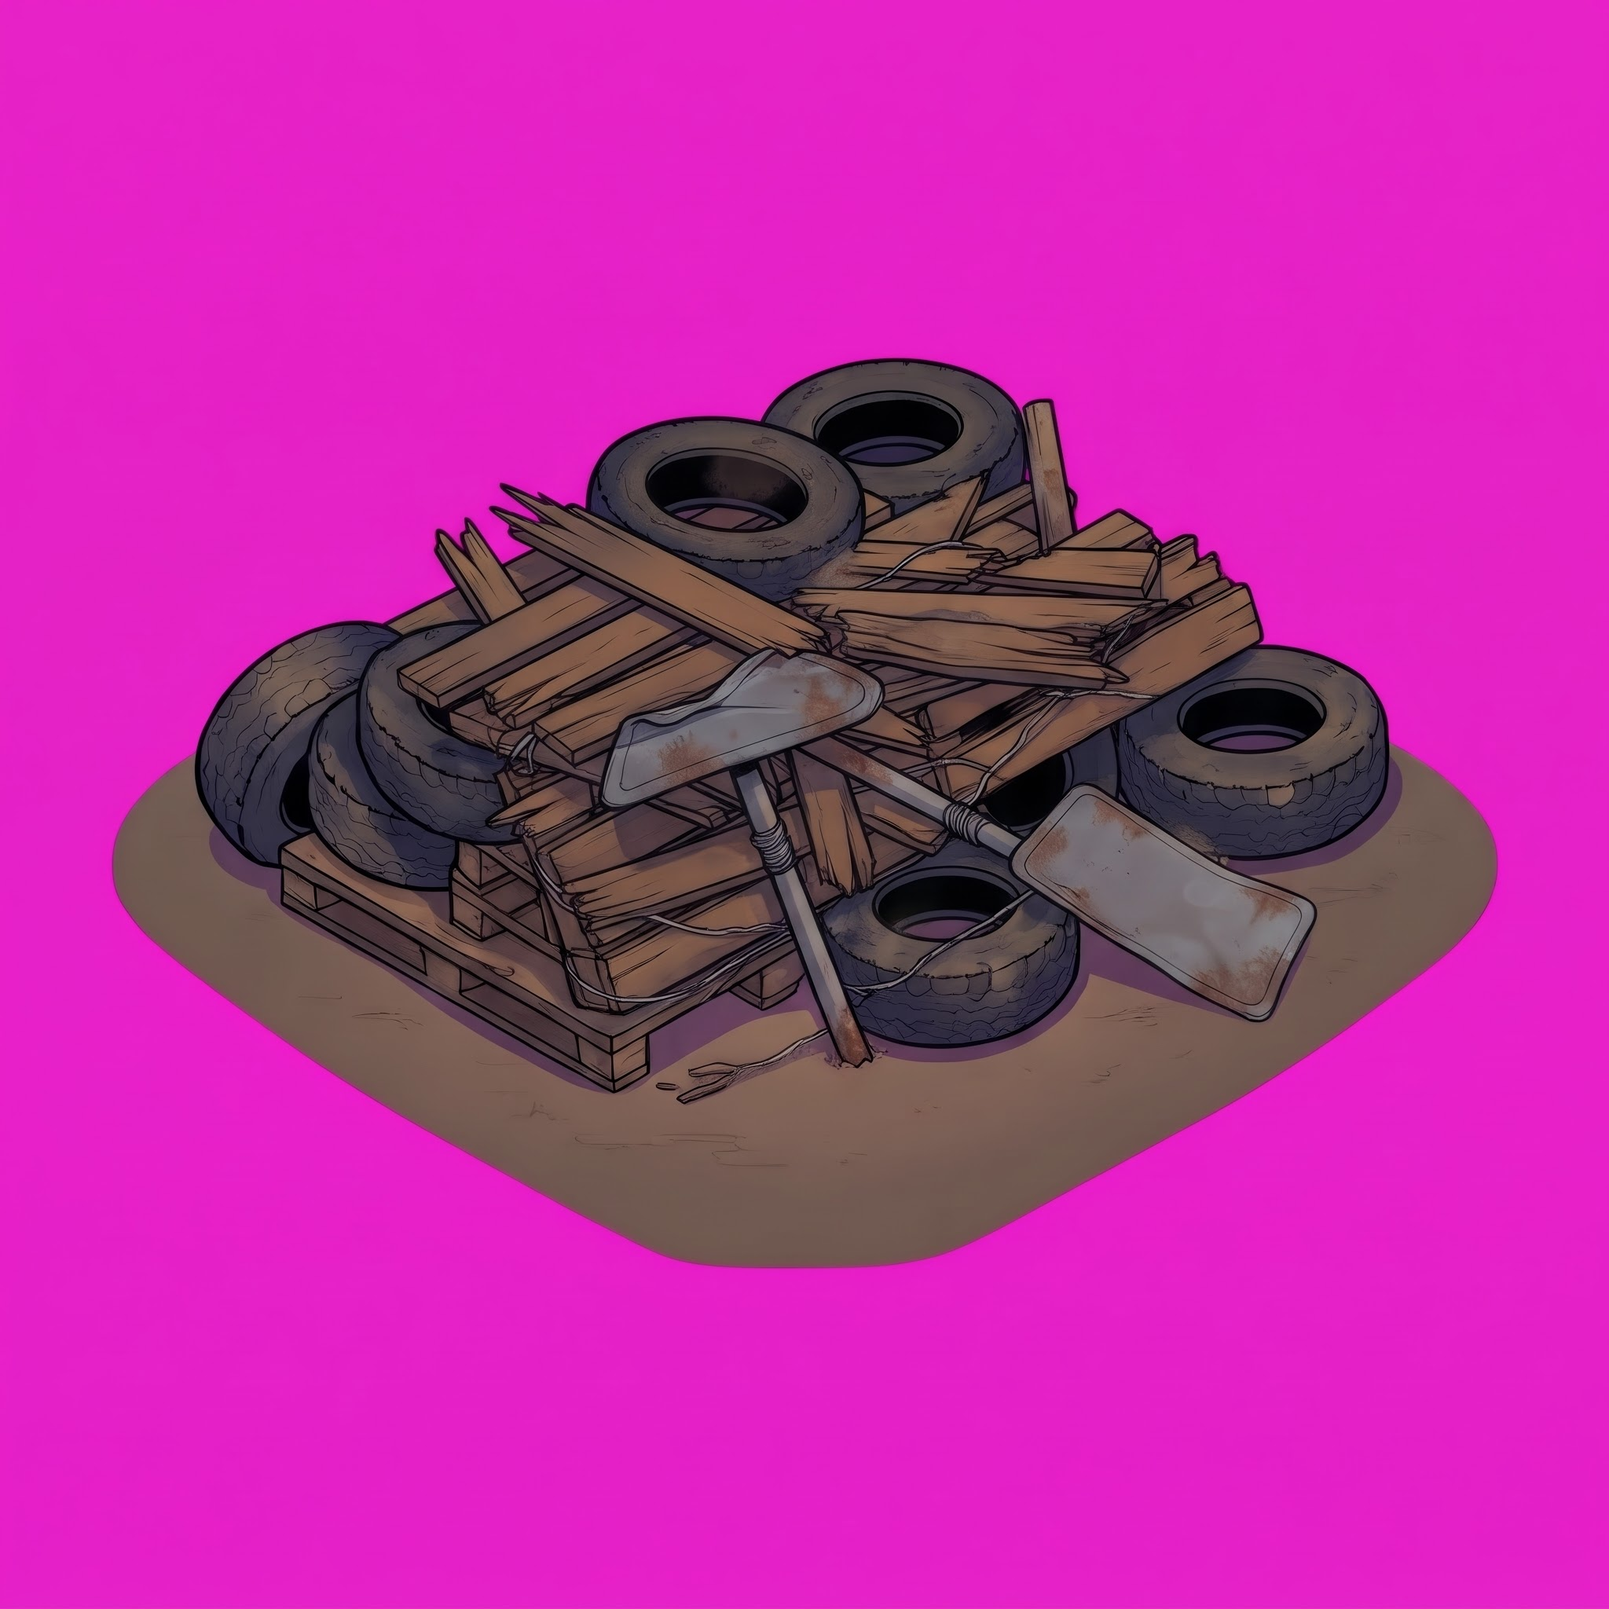
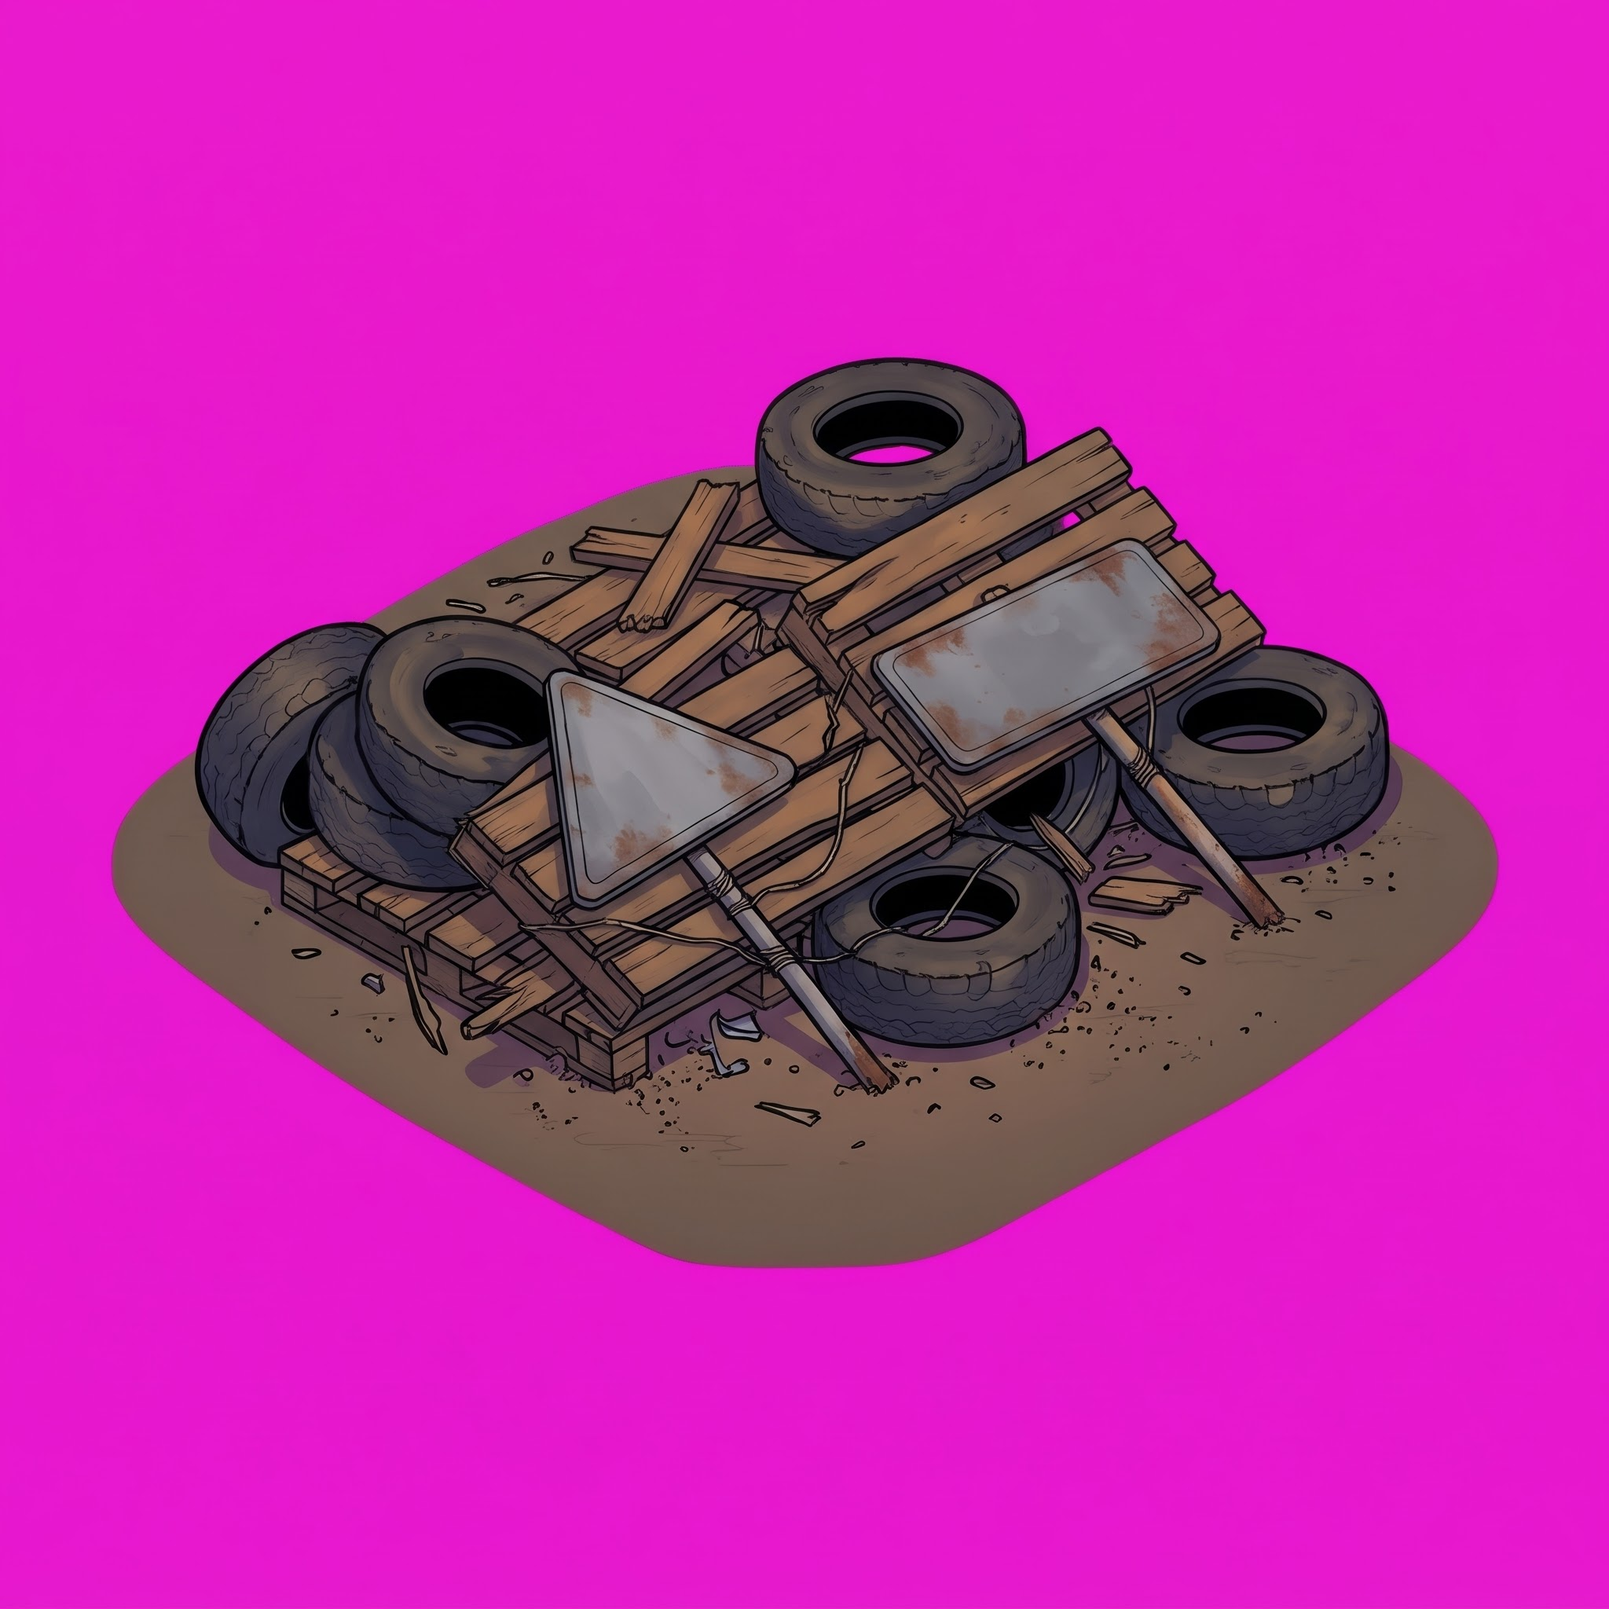
Images V5 : barricade effondrée refaite, infirmerie en bâtiment, zombies V4 sur l'écran titre
Claude-Session: https://claude.ai/code/session_01EiUMbdDP9aDK3QQ2MmNpDK

Changed region(s): [[0.1562, 0.25, 0.8438, 0.7188], [0.8125, 0.5, 0.8438, 0.5312]]

diff --git a/CLAUDE.md b/CLAUDE.md
@@ -170,7 +170,7 @@ Alternatives écartées pour l'instant : (B) plus de contenu d'exploration (3e z
 - Images V3 dans le jeu : `Images.v3_*` lit `images/v3/manifest.json` (ancre aux pieds ; exporté via `include_filter`) ; lampe = pixel le plus à droite entre 35 et 65 % de la hauteur ; yeux du coureur = pixels jaunes du tiers haut, redessinés sur le calque `Yeux`. Un profil V3 (retourné) + des poses de dos (voir « Poses de dos ») ; V2 gardé en secours si une image V3 manque.
 - Animation V3 (`Images.v3_animation`) : walk_a / walk_b (ou run_a / run_b) alternés en marche (a, passage walk_c, b, passage quand walk_c existe : héros et héroïne depuis le lot D des images V4), sinon pose immobile avec rebond + inclinaison ; pose attack pendant `DUREE_POSE_ATTAQUE` (0,3 s) après un coup.
 - Poses de dos (demande du père) : quand le regard va vers le haut de l'écran (`Iso.direction_ecran(_regard).y < -0.1` : haut, haut-gauche, haut-droite), `v3_animation(..., dos = true)` prend `<perso>_back_iddle` au repos et `_back_walk_a` / `_back_walk_b` en marche (images regardant en haut à droite, retournées pour la gauche), et renvoie `"dos": true`. Il faut les 3 poses, sinon poses habituelles. Le coup garde la pose attack de profil. Lampe des poses de dos : main du côté gauche de l'image, `Images.v3_lampe(nom, gauche = true)` = pixel le plus à gauche entre 35 et 65 % de la hauteur (vérifié sur les 6 poses : bout de la torche) ; le faisceau garde la direction du regard. Seul le héros dans les lieux s'en sert (ChoixHeros, titre et fin inchangés). Test `test_o` (captures montée, montée à gauche, arrêt face au haut, descente).
-- Zombies en images V3 / V4 (lot C) : `Zombie.PERSOS_V3` (gros `zombie_big`, maigre `zombie_thin`, coureur `zombie_runner`) ; `_pose` passe par `Images.v3_animation` pour tous : profil regardant à gauche (retourné à droite), dos (`regard` vers le haut, images vers le haut à droite, retournées à gauche), pose `attack` (bras levés) pendant la préparation du coup ; les bras dessinés en code (`_dessiner_bras_leves`) ne servent plus qu'en secours sans image `attack` (remarque d'Eliott : mélange dessin / code). Atlas V2 (`POSES`) gardé en secours. Yeux V3 cherchés dans la moitié haute de l'image (tête plus basse bras levés). Fiche de la carte : zombies V3. Écrans titre / fin (`DecorEcran`) : encore V2.
+- Zombies en images V3 / V4 (lot C) : `Zombie.PERSOS_V3` (gros `zombie_big`, maigre `zombie_thin`, coureur `zombie_runner`) ; `_pose` passe par `Images.v3_animation` pour tous : profil regardant à gauche (retourné à droite), dos (`regard` vers le haut, images vers le haut à droite, retournées à gauche), pose `attack` (bras levés) pendant la préparation du coup ; les bras dessinés en code (`_dessiner_bras_leves`) ne servent plus qu'en secours sans image `attack` (remarque d'Eliott : mélange dessin / code). Atlas V2 (`POSES`) gardé en secours. Yeux V3 cherchés dans la moitié haute de l'image (tête plus basse bras levés). Fiche de la carte : zombies V3. Écrans titre / fin (`DecorEcran`) : zombies V4 (`DecorEcran.ZOMBIES_V3` : `zombie_big_iddle`, `zombie_thin_iddle`, assombris, yeux qui brillent par-dessus) depuis les images V5, poses V2 en secours.
 - Zombie coureur (`Type.COUREUR`, images `zombie_runner_*`, regardent à gauche), supermarché seulement (allée du bas). Réglages `ZOMBIE_COUREUR_*` : 2 PV (1 avant le lot 3 b), charge à 1,8 x `ZOMBIE_LENT_VITESSE` (« zombie de base » = le lent : 252, juste sous le héros), seulement la vue en cône (n'entend pas, ne sent pas de dos), charge de 2 s au plus, puis état `ESSOUFFLE` 1,5 s (immobile, inoffensif, gouttes de sueur) ; une charge s'arrête aussi au contact ou s'il te perd. Cri du maigre.
 
 - Écran Réglages (demande du père) : bouton rond « Réglages » de la base (en haut à droite en paysage, en bas à droite au-dessus de Start en portrait) -> scène `Parametres`. Les valeurs de `Reglages` sont des `var` (plus des `const`) ; `data/reglages.gd` garde les valeurs d'origine. Autoload `ParametresJeu` (juste après `Reglages`) : `PAGES` = 10 pages, 58 réglages choisis (32 avant le lot 3 c, 34 avant le lot 3 e, 35 avant le lot 3 d, 36 avant le lot 3 f2, 37 avant le lot 4 a, 38 avant le lot 4 c, 44 avant le lot 4 g, 49 avant le lot 4 f, 51 avant le lot 4 h1, 55 avant le lot 4 h2) [nom, libellé, pas, min, max] (pas 0 = interrupteur Oui/Non) ; libellés recopiés à la main (le fichier n'est pas lisible dans l'APK) : un nouveau réglage à rendre modifiable s'ajoute dans `PAGES`. Valeurs changées dans `user://reglages.json` ({nom: valeur}, seulement celles qui diffèrent), relues au démarrage et ramenées dans les limites. « Valeurs d'origine » remet seulement la page affichée. Les changements comptent à la partie suivante (le volume de la musique tout de suite). Coûts et objectifs (dictionnaires) pas dans l'écran. Faisceau recalculé si `LAMPE_ANGLE` change.
@@ -186,7 +186,7 @@ Alternatives écartées pour l'instant : (B) plus de contenu d'exploration (3e z
 - Rescapé (demande du père) : scène `Rescape` (`scripts/rescape.gd`, CharacterBody2D groupe `rescapes`, aucune couche physique, masque décor : il ne bloque personne, seul le décor l'arrête). Un par lieu, dans un coin caché : supermarché derrière l'étagère du fond à droite (2290, 450), maison dans la salle de bain à droite de la baignoire (1500, 320) ; une 2e cachette tirée au hasard depuis le lot 3 d (voir « Variété »). États : CACHE (pose `survivor_hiding`, « ? » bleu clair sur le calque `Icone` sans ombre) -> contact du héros (`RESCAPE_PORTEE`, pas s'il est caché) -> SUIT (pose `survivor_follow` avec le rebond de `v3_animation`, retournée selon la direction à l'écran, avance vers le héros tant qu'il est à plus de `RESCAPE_DISTANCE`, à `RESCAPE_VITESSE`) ; héros caché ou K.O. -> ATTEND (pose hiding, immobile) ; zombie à moins de `ZOMBIE_PORTEE_CONTACT` de lui -> RETOUR (« ! », court à sa place à 1,2 x la vitesse) -> CACHE. Les zombies ne le voient pas et ne le poursuivent pas : seul le contact compte, vérifié par le niveau (`effrayer`). Pas de son de peur (pas d'asset). Bloqué = n'avance pas vers sa cible (vitesse réelle < 40 %) pendant 0,6 s : en RETOUR il réapparaît à sa place ; en SUIT seulement s'il est à plus de `RESCAPE_DISTANCE_MAX`, alors juste derrière le héros (opposé du regard, rayon contre le décor pour ne pas entrer dans un mur). Le niveau lui donne position, regard (`Heros.regard()`) et « caché » à chaque pas ; signal `suit_change` -> `HUD.afficher_rescape(present, suit)` (icône sous les cœurs : cadre + `survivor_follow` grisé, en couleur avec bord vert quand il suit, cachée sans rescapé).
 - Sauvé = victoire alors qu'il suit (SUIT ou ATTEND), même s'il est encore à quelques pas derrière. `Partie.terminer(victoire, ramasses, rescape)` : `rescapes` (total) + `lieux_sauves` (ids) ; `rescape_sauve(id)` ; le niveau enlève le `Rescape` d'un lieu déjà sauvé avant de collecter les visuels. `resultat["rescape"]`. Sauvegarde version 5 (+ `rescapes`, `lieux_sauves`) ; une version 4 est reprise (0 rescapé) et réécrite en 5. `infos_lieu` compte aussi les `rescapes` de la scène.
 - Écran de fin : ligne « Tu as sauvé un rescapé ! » et `survivor_happy` qui sautille à gauche du héros. Fiche de la carte : « Rescapé : N » (jaune, `survivor_hiding`) ou « Rescapé sauvé » (vert, `survivor_happy`), à droite sous la ligne Danger. Réglages : `RESCAPE_VITESSE` (230, sous les 260 du héros), `RESCAPE_PORTEE`, `RESCAPE_DISTANCE`, `RESCAPE_DISTANCE_MAX`, page « Rescapé » de `ParametresJeu.PAGES` (« Rescapé et lieux » depuis le lot 3 d).
-- Base V3 (demande du père) : jusqu'au lot 4 a, fond `bg_base` recadré pour remplir l'écran et bâtiments posés en fractions de l'écran (`PLACES`) ; `bg_base` n'est plus utilisée depuis (sol du parking dessiné en code). Bâtiments `base_*` à la même taille qu'avant (une case de 200 = l'image à 0,5 ; projecteur à 0,375 : il est très haut). Selon la sauvegarde : `base_shelter_1`, puis `base_shelter_2` dès 2 constructions ; `base_campfire` toujours, avec les flammes animées de l'ancien feu par-dessus (`FEU_IMAGE`), semi-transparentes et sans contour (`FEU_OPACITE` 0,5) pour laisser voir le feu peint et sa lueur au sol ; `base_barricade`, `base_workshop`, `base_floodlight` si construits (le projecteur garde un faisceau et une lueur dessinés, `_phares`) ; une `base_tent` par rescapé sauvé (`Partie.rescapes`, au plus 4 places `TENTES`, 10 depuis le lot 4 c), son rescapé (pose happy) devant l'entrée (personnage qui se promène depuis le lot 4 c). `base_garden` quand le jardin est construit (lot 3 c). L'infirmerie n'a pas d'image : rien de plus dans le camp.
+- Base V3 (demande du père) : jusqu'au lot 4 a, fond `bg_base` recadré pour remplir l'écran et bâtiments posés en fractions de l'écran (`PLACES`) ; `bg_base` n'est plus utilisée depuis (sol du parking dessiné en code). Bâtiments `base_*` à la même taille qu'avant (une case de 200 = l'image à 0,5 ; projecteur à 0,375 : il est très haut). Selon la sauvegarde : `base_shelter_1`, puis `base_shelter_2` dès 2 constructions ; `base_campfire` toujours, avec les flammes animées de l'ancien feu par-dessus (`FEU_IMAGE`), semi-transparentes et sans contour (`FEU_OPACITE` 0,5) pour laisser voir le feu peint et sa lueur au sol ; `base_barricade`, `base_workshop`, `base_floodlight` si construits (le projecteur garde un faisceau et une lueur dessinés, `_phares`) ; une `base_tent` par rescapé sauvé (`Partie.rescapes`, au plus 4 places `TENTES`, 10 depuis le lot 4 c), son rescapé (pose happy) devant l'entrée (personnage qui se promène depuis le lot 4 c). `base_garden` quand le jardin est construit (lot 3 c). L'infirmerie est un bâtiment `base_infirmary` depuis les images V5 (voir « Images V5 »).
 - Chute du ciel : la première fois qu'un bâtiment apparaît (ids `abri_1`, `abri_2`, `feu`, `barricade`, `atelier`, `lampe`, `jardin`, `tente_N`), `Partie.premiere_apparition(id)` le retient (`batiments_vus`, sauvegarde version 6 ; une version 5 est reprise sans rien de vu, donc tout tombe une fois) et il tombe : chute 0,55 s avec son ombre qui grandit, aplatissement + petit rebond 0,35 s, nuage de poussière 0,8 s ; l'un après l'autre (0,35 s d'écart). Le rescapé attend que sa tente soit posée ; lueurs du feu et du projecteur seulement une fois posés. Une construction posée (lot 4 b : après le placement) apparaît aussitôt à sa place (collision comprise) et tombe du ciel à cet endroit ; depuis le lot 4 a la chute ne décale que le dessin (bandes de l'image), le bâtiment finit posé dans son emprise. `Batiment.tomber(attente)`, `pose()`, `pieds()`.
 - Tiroir des constructions : bouton `Base/Interface/Tiroir` 260x100 « Construire » (« Fermer » ouvert), en haut à gauche en paysage, à droite de la jauge du remède en portrait (jauge à gauche, même ligne, y 236). Vert quand une construction est possible. Le tiroir glisse et apparaît en fondu (0,2 s) sous l'inventaire (paysage) ou sous la jauge (portrait), sur un fond sombre arrondi ; fermé, il est caché (cartes intouchables). `Base.ouvrir_tiroir(bool)`, `tiroir_ouvert()`. Inventaire, jauge, Héros, Réglages et Start restent visibles. Attention : `BoutonTactile` a une taille minimum de 140x140, forcer `custom_minimum_size` pour un bouton plus petit.
 - Diagnostic des constructions qui « volaient » (lot 4 a, captures avec tout construit et 4 tentes) : les `PLACES` étaient des fractions de l'écran, identiques quelle que soit sa forme, alors que `bg_base` était recadré différemment selon l'écran et que son parking n'en couvre que le bas (le haut = muret, ruines, ciel).
@@ -335,6 +335,7 @@ Alternatives écartées pour l'instant : (B) plus de contenu d'exploration (3e z
 - Images V5 / lot 2 : épave jaune, barricade abîmée en 3 stades d'images (abîmée, très abîmée, effondrée), ferraille, boîte de balles, pomme du potager et icône Réparer en images Gemini.
 - Images V5 / lot 3 : icônes des boutons (Soigner, Guérir, Sortir, Pause, Jouer, Réglages, Héros) et vignette de la défense sur la carte en images Gemini, pilules à icône en image.
 - Images V5 / lot 4 : caisses en bois, carton-cachette, porte à cadenas de la pharmacie, sorties des 3 lieux (pans de mur avec porte ouverte) et icône de l'héroïne en images Gemini.
+- Images V5 / fin : barricade effondrée refaite (tas de planches), infirmerie en bâtiment posé dans la base, zombies V4 sur les écrans titre et fin. Fin des images V5.
 
 ## Refonte visuelle (après le lot 1, demande du père)
 Lots (plan révisé après les planches V2) : 1 volumes 3/4 (remplacé par l'isométrique), 2 éclairage, 3 préparation des images V2, 4 passage en ISOMÉTRIQUE + décor + personnages en images V2, 5 ambiance (brume, lisibilité), 6 objets + retours de jeu, 7 UI.
@@ -353,6 +354,7 @@ Lots (plan révisé après les planches V2) : 1 volumes 3/4 (remplacé par l'iso
   - Lot 2 traité (épave jaune, étape h2, objets) : `prop_wreck_yellow` (retouche ; les 3 épaves ont maintenant leur image), `base_barricade_damaged_1` / `_2` / `base_barricade_broken` (retouches de `base_barricade`, mêmes coins au sol), `item_scrap` (ferraille) et `item_ammo` (boîte de balles) dans `Dessin.IMAGES_V3_OBJETS`, `item_apple` (`Dessin.pomme` : potager, HUD ; `SANS_HALO` du script efface la lueur rose mêlée au magenta, restent de fins liserés invisibles à 32 px), `icon_repair` (`BoutonTactile.IMAGES_ICONES["reparer"]`). Barricade : `Barricade.STADES` (plus de la moitié de la solidité : abîmée, sinon très abîmée, 0 : effondrée), image changée par `Batiment._rehabiller(nom)` (aussi utilisée par la tourelle), plus de fissures en code ; l'image « effondrée » de Gemini reste haute (un 3e stade abîmé plutôt qu'un tas) : tassée à `RESTE_IMAGE` (0,7) sans assombrir. Sans les 3 images : fissures et écrasement en code comme au lot 4 h2.
   - Lot 3 traité (icônes) : `icon_heal`, `icon_cure`, `icon_exit`, `icon_pause`, `icon_play`, `icon_settings`, `icon_hero` dans `BoutonTactile.IMAGES_ICONES` (soigner, guérir, sortir, pause, jouer, réglages, héros) : boutons ronds comme Frapper (70 % du diamètre, texte cerclé dessous), et désormais aussi les pilules (Start, Jouer, Y aller, Reprendre, Continuer, Valider : image dans un carré de 2,5 x le rayon de l'icône, grisée si inactif) ; dessin en code si l'image manque. `icon_hero` (garçon) ; `icon_heroine` depuis le lot 4. `map_defense` (camp attaqué, lueur rouge détourée en anneau rouge net) : `Carte.VIGNETTES["defense"]`, plus de teinte rouge avec elle (`TEINTE_DEFENSE` seulement sur `map_base` en secours).
   - Lot 4 traité (restes V2 des lieux) : `prop_crate` / `prop_crate_big` (`Mur.CAISSES_V5`, à la place des caisses V2, emprise 110x110 inchangée, plus d'ombre en code), `prop_cardboard` (cachette carton, `Cachette.IMAGES`, yeux au rabat ouvert ; `Cachette.TAILLE_FIXE` : garde l'emprise 110x70 de la scène au lieu des proportions de l'image, collision inchangée), `prop_door_locked` (`Porte.IMAGE_V5`, avant `porte_fermee` V2 ; emprise mesurée pour 200x30), `wall_house_exit` et `wall_pharmacy_exit` (retouches des murs : pan avec la porte ouverte et la lumière verte, `Sortie.image` réglé dans chaque lieu, `porte_ouverte` V2 en secours, même `CLARTE_V3` que le mur), `icon_heroine` (bouton Héros quand l'héroïne est choisie, `BoutonTactile._image_icone`). `wall_market_exit` : 1er essai écarté (long mur bas presque de face : `ecartees/wall_market_exit_cadrage_rate.jpg`), 2e retouche bonne mais avec une flaque de lumière verte et le battant qui débordaient sous le mur : source brute `planches/wall_market_exit_brute.jpg`, tout ce qui est sous la ligne du bas du mur repeint en fond (`docs/raw/V5/wall_market_exit.png`, même taille que `wall_market` après traitement) ; les 3 lieux ont leur sortie V5. `UNE_TACHE` du script (restes détachés du contour du socle effacés, `prop_crate`).
+  - Fin des images V5 : `base_barricade_broken` refaite (vrai tas de planches : plus de tassement `RESTE_IMAGE`, écrasement et assombrissement en code seulement sans les images ; 1re version dans `ecartees/base_barricade_broken_trop_haute.jpg`). Infirmerie branchée (accord du père) : bâtiment `base_infirmary` (`Partie.BATIMENTS`, `Base.TAILLES` 200x200), posée par le mode placement comme les autres, chute du ciel une fois ; une ancienne partie qui l'avait déjà la reçoit à `Partie.PLACES_DEPART["infirmerie"]` (450, 1000, haut gauche du parking, libre dans la base de l'étape a) ; effet inchangé ; `test_v` passe par Poser. Écran titre / fin : zombies V4 (`DecorEcran.ZOMBIES_V3`). `tests/capture_base.gd` sauvegarde l'état qu'il prépare (sinon une partie laissée par un test interrompu était relue).
 - Détourage : fond = magenta pur, ou mélange magenta + `original.png` (incrustation alignée pixel pour pixel), ou voile violet clair. Faisceau du héros et lueur des objets retirés par remplissage depuis l'extérieur jusqu'au contour noir.
 - Textures à 2x la taille d'affichage visée (tablette 2560x1600). Échelles par famille dans `FAMILLES`.
 - Zombies : une image `<pose>_yeux` par pose de face/profil (les yeux seuls, recadrés, avec leur décalage) pour les dessiner sans être assombris par la nuit.

diff --git a/docs/raw/V5/LISEZMOI.md b/docs/raw/V5/LISEZMOI.md
@@ -19,3 +19,5 @@ murs à retoucher : references/retouche_wall_*.jpg.
 Lot 4 déposé et traité (7 images gardées sur 8) : wall_market_exit écartée (cadrage raté), à refaire en retouche de references/retouche_wall_market.jpg.
 Sortie du supermarché refaite (2e retouche, flaque verte sous le mur effacée). Barricade effondrée à refaire :
 references/planche_barricade_effondree.jpg.
+Barricade effondrée refaite (vrai tas au sol, la 1re dans ecartees/). Infirmerie branchée dans la base, zombies V4
+sur l'écran titre. Images V5 terminées. Restent non faits : muret du parking (toujours dessiné en code).
